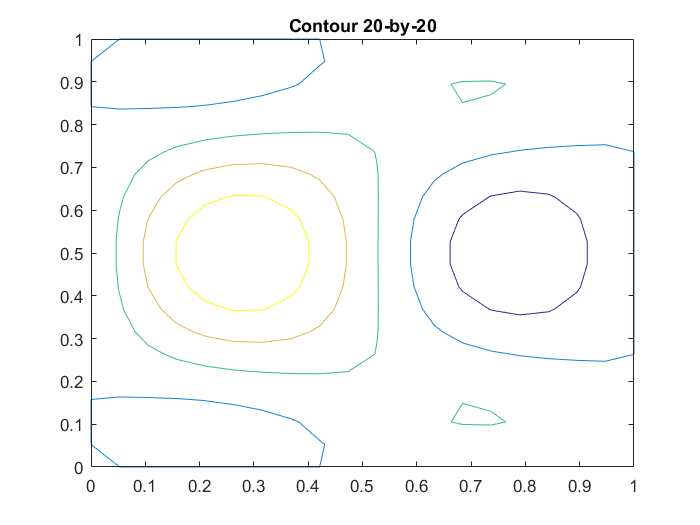
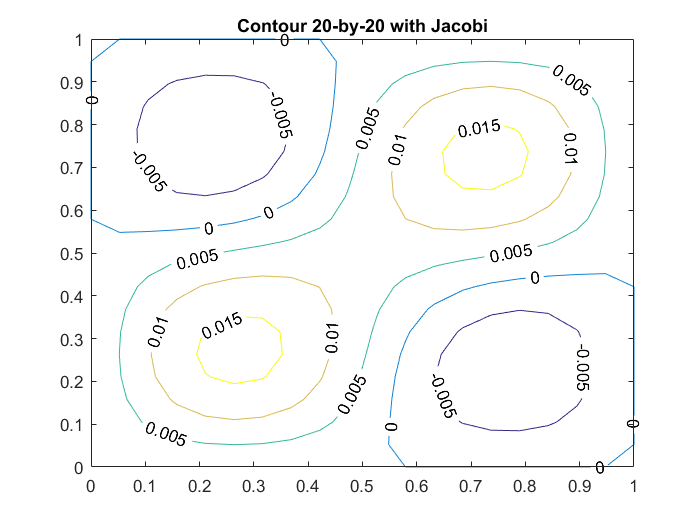
502 fix

diff --git a/ENM_hw3/grid_gs.m b/ENM_hw3/grid_gs.m
@@ -1,5 +1,5 @@
 % generate grid points
-M = 10;
+M = 30;
 x = 0 : 1 : M - 1;
 x = x ./ (M - 1);
 x = repmat(x, M, 1);
@@ -68,7 +68,7 @@ U(2:M - 1, 2:M - 1) = u;
 figure(1);
 [C, h] = contour(x, y, U);
 clabel(C, h)
-title(['Contour ', num2str(M), '-by-', num2str(M)]);
+title(['Contour ', num2str(M), '-by-', num2str(M), ' with Gauss-Seidel']);
 
 % figure(2);
 % surf(x, y, U);

diff --git a/ENM_hw3/grid_jacobi.m b/ENM_hw3/grid_jacobi.m
@@ -1,5 +1,5 @@
 % generate grid points
-M = 20;
+M = 30;
 x = 0 : 1 : M - 1;
 x = x ./ (M - 1);
 x = repmat(x, M, 1);

diff --git a/ENM_hw3/grid_newton.m b/ENM_hw3/grid_newton.m
@@ -1,5 +1,5 @@
 % generate grid points
-M = 20;
+M = 50;
 x = 0 : 1 : M - 1;
 x = x ./ (M - 1);
 x = repmat(x, M, 1);

diff --git a/ENM_hw3/gs_solve.m b/ENM_hw3/gs_solve.m
@@ -9,7 +9,7 @@ if exist('x0')
     xx = x0;
 end
 
-tol = 0.01;
+tol = 0.001;
 ite = 0;
 
 while 1

diff --git a/ENM_hw3/jacobi_solve.m b/ENM_hw3/jacobi_solve.m
@@ -9,7 +9,7 @@ if exist('x0')
     xx = x0;
 end
 
-tol = 0.01;
+tol = 0.001;
 ite = 0;
 
 while 1
